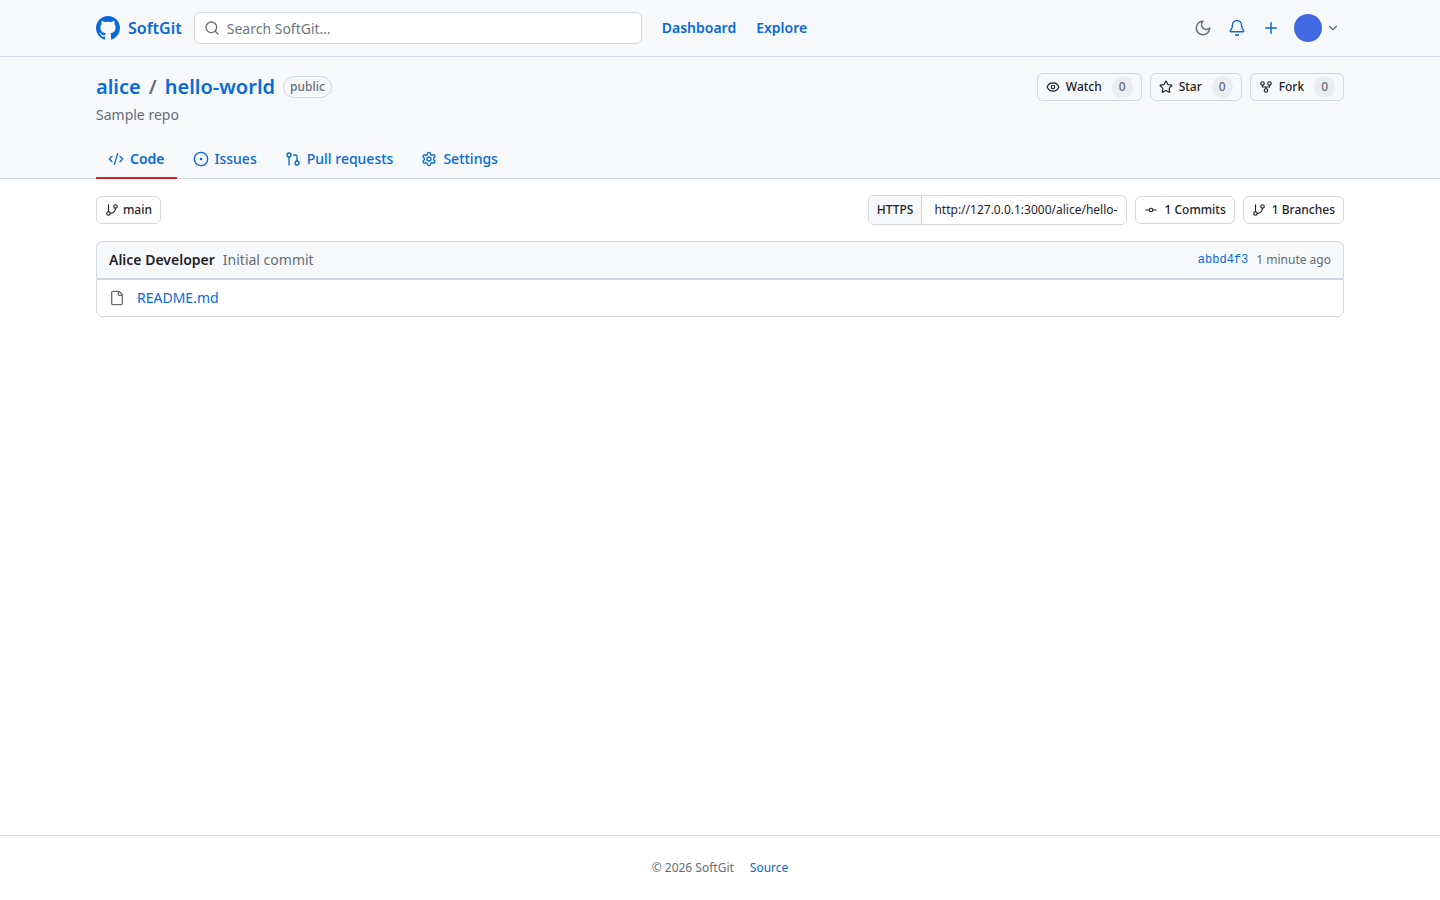
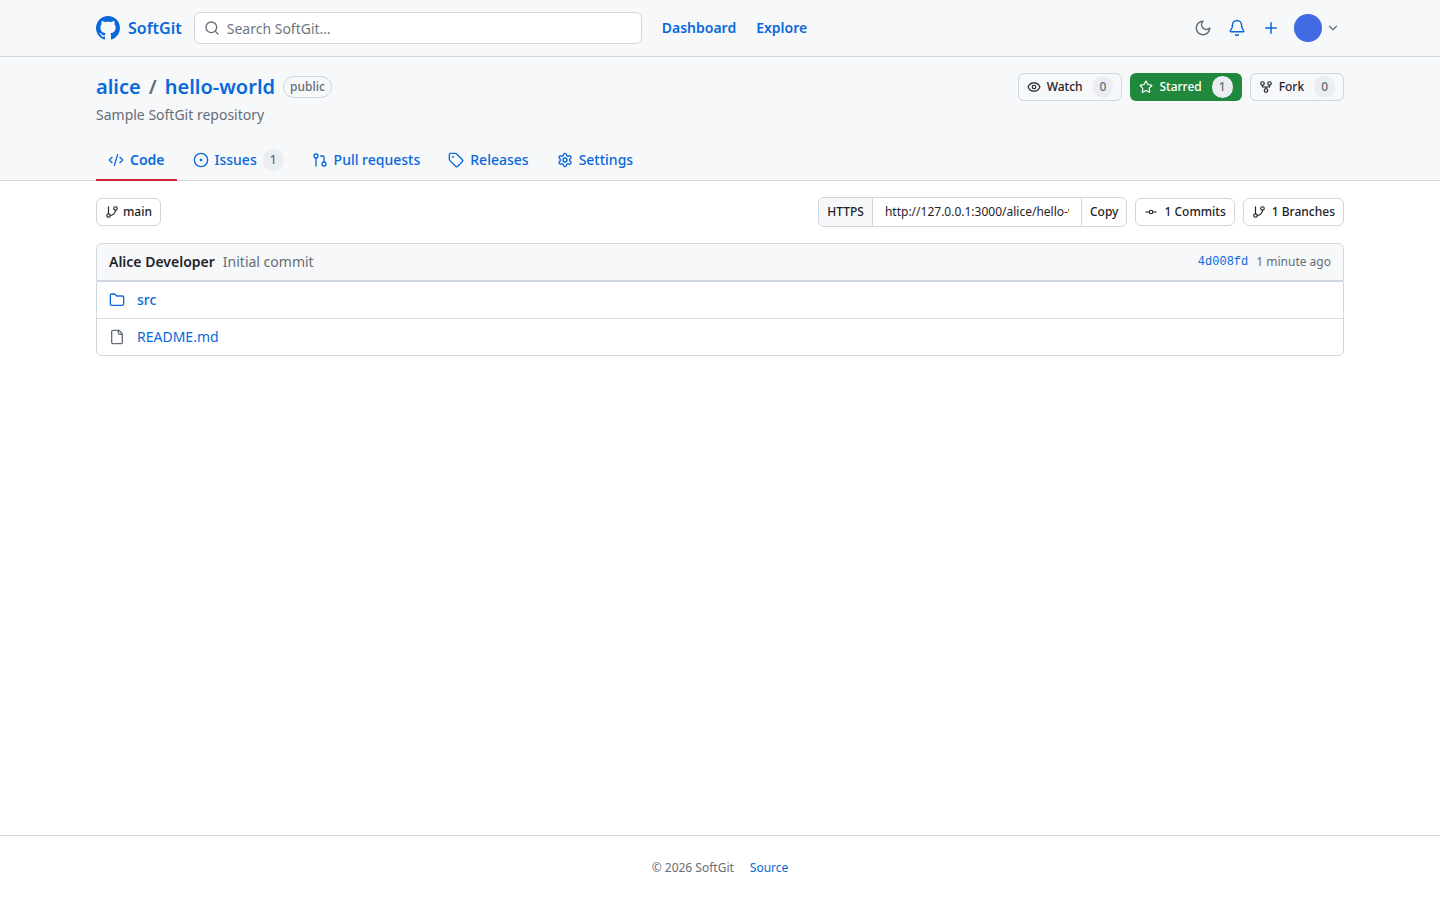
Refresh demo screenshots for latest SoftGit UI
Covers dashboard, explore, profile, issues, releases, admin,
appearance, SSH keys, tokens, search, dark theme, and mobile.

diff --git a/frontend/src/api/repositories.ts b/frontend/src/api/repositories.ts
@@ -121,14 +121,6 @@ export async function deleteAvatar(): Promise<import('@/types').User> {
   return data
 }
 
-export async function starRepository(owner: string, repo: string): Promise<void> {
-  await apiClient.put(`/user/starred/${owner}/${repo}`)
-}
-
-export async function unstarRepository(owner: string, repo: string): Promise<void> {
-  await apiClient.delete(`/user/starred/${owner}/${repo}`)
-}
-
 export async function isStarred(owner: string, repo: string): Promise<boolean> {
   try {
     const { data } = await apiClient.get<{ starred: boolean }>(`/user/starred/${owner}/${repo}`)

diff --git a/demo/README.md b/demo/README.md
@@ -1,26 +1,30 @@
 # SoftGit UI Demo Screenshots
 
-Live screenshots from SoftGit backend + frontend. Test data is wiped after capture.
+Captured from a live SoftGit backend + frontend run. Test data is wiped after capture.
 
-| File | Description |
-|------|-------------|
+| File | Page |
+|------|------|
+| `01-landing.png` | Logged-out home |
 | `02-login.png` | Sign in |
-| `04-dashboard.png` | Home with repositories |
-| `05-repo-code.png` | Repository code + README |
-| `06-commits.png` | Commits (verified author badge when matched) |
-| `10-profile.png` | Profile with **verified badge**, avatar, profile README |
-| `11-settings-profile.png` | Profile settings (avatar change/delete) |
+| `04-dashboard.png` | Dashboard with repos |
+| `05-repo-code.png` | Repository code + clone URL |
+| `06-commits.png` | Commits (verified when applicable) |
+| `07-issues.png` | Issues list |
+| `08-pulls.png` | Pull requests |
+| `09-repo-settings.png` | Repository settings |
+| `10-profile.png` | Profile (verified badge + README) |
+| `11-settings-profile.png` | Profile settings / avatar |
 | `12-new-repo.png` | Create repository |
+| `13-search.png` | Search results |
 | `14-repo-dark.png` | Dark theme |
-| `15-mobile-dashboard.png` | Mobile home |
-| `16-mobile-repo.png` | Mobile profile |
+| `15-mobile-dashboard.png` | Mobile dashboard |
+| `16-mobile-repo.png` | Mobile repository |
 | `19-profile-repo.png` | Profile repository |
 | `20-settings-appearance.png` | Theme picker |
 | `21-admin-overview.png` | Admin overview |
-| `22-admin-users.png` | Admin users (verify / admin / disable) |
+| `22-admin-users.png` | Admin users |
 | `23-admin-settings.png` | Site settings |
-
-## Verified badge
-
-Admins can mark users as verified. A blue badge appears after the display name with tooltip:
-“This user has been verified by SoftGit administration.”
+| `24-explore.png` | Explore public repos |
+| `25-releases.png` | Releases |
+| `26-settings-ssh.png` | SSH keys |
+| `27-settings-tokens.png` | Access tokens |
